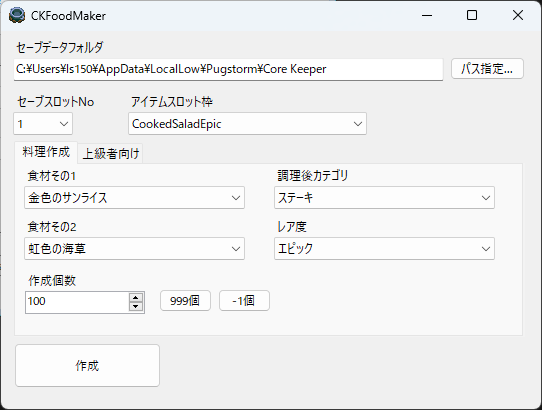
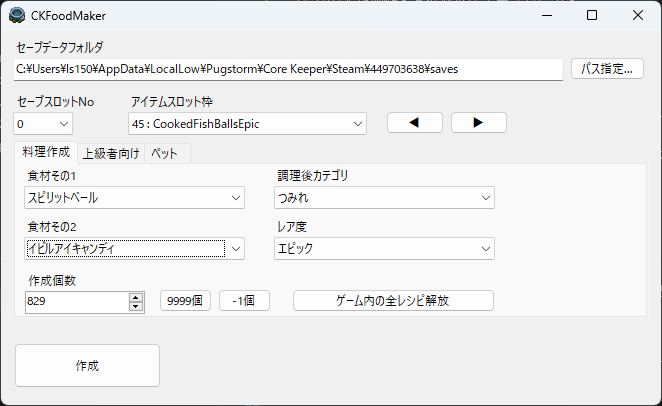
update read me.

diff --git a/README.md b/README.md
@@ -1,34 +1,53 @@
 # CKFoodMaker
 
-![CKFoodMaker Overview](Document/images/imageSample.png)
-
 [CoreKeepr](https://store.steampowered.com/app/1621690/Core_Keeper/)のインベントリ内容を操作する外部拡張エディターです。  
-通常の手段では作れない料理の作成を目的として制作しています。  
-手に入りにくい金色食材同士の料理や、作成する料理のレア度や個数を調整することが出来ます。  
-ポーションやシーズン料理を食材として扱うことによって、料理の補正効果やスキル効果が乗ることにより通常以上の効果量や効果時間を得ることが出来ます。  
-作成した料理やアイテムの使用や持ち込みにmod等は一切必要ありませんが、作成したアイテムが有効かどうかはゲーム側に判定されます。
+通常の手段では作れない料理の作成などを目的として制作しています。  
 
+## できること
+- 任意の食材の組み合わせによる料理の作成します。  
+  - 料理のレア度や個数を調整することが出来ます。  
+- ポーションやシーズン料理を食材とした料理を作成し、料理補正の乗った効果量や効果時間を得ることが出来ます。  
+- ただし一部の作成したアイテムが有効かどうかはゲーム側に判定されます。
+- 料理が未作成の食材の組み合わせをリストップします。
+- インベントリ内の全てのアイテム個数を変更できます。
+- インベントリ内の全ての装備の耐久度を変更できます。
+- インベントリ内の全てのペットスキルを変更できます。
+- 未取得のアイテムや装備をインベントリに作成できます。
+- ペットスキルの編集ができます。
+  - スキルの変更と有効/無効の切り替えができます。
+  - 未実装のペットスキルを対象に含みます。
+- 通常手段で入手不可の未実装アイテムの取得ができます。
+- 負数個の料理の作成
+  - 負数個のアイテムは回路のバグ挙動を使ったアイテム増殖に利用出来ます。  
+- ゲームやmodのバージョンに殆ど関係なく使えます。
+
+![CKFoodMaker Overview](Document/images/imageSample.png)  
+![](Document/images/imageEditPet.png)
+## 免責事項
+キャラクターデータのインベントリを直接編集します。
+また、上級者向けの機能として料理に限らない全てのアイテムの編集機能を持ちます。
+データの破損が紛失が起きても責任はおいかねます。    
+必ずバックアップをとってください。  
+
+## 制限事項
+以下の方は本ツールの機能に制限をかけています。  
+- エンディングに到達していない方  
+- 特定のパラメータが異常域に達している方  
+
+要はクリア後の正常なやりこみ勢向けツールになります。
+
+## 動作環境
+.NET 8.0以降のランタイムパッケージがインストールされていること。
+
+## Explain
 CKFoodMaker is an external extension editor designed to modify the inventory contents of [Core Keeper](https://store.steampowered.com/app/1621690/Core_Keeper/).  
 This tool is primarily intended for creating dishes that cannot be made through normal means.  
 It allows you to create dishes from rare golden ingredients and adjust the rarity and quantity of the dishes.  
 By using potions and seasonal dishes as ingredients, you can achieve effects and durations that exceed normal levels thanks to the enhanced effects and skill boosts.  
-No mods are required to use or bring the created dishes and items into the game, but whether the created items are valid is determined by the game itself.
-
-## 免責事項
-キャラクターデータのインベントリを直接編集します。
-また、上級者向けの機能として料理に限らない全てのアイテムの編集機能を持ちます。
-データの破損が紛失が起きても自己責任でお願いします。
+No mods are required to use or bring the created dishes and items into the game, but whether the created items are valid is determined by the game itself.  
 
 ## Disclaimer
-This tool directly edits the character data's inventory. It also includes advanced features that allow you to edit any item, not just dishes. Use at your own risk, as we are not responsible for any data corruption or loss.
-
-## 機能
-- 任意の食材を指定した料理の作成
-- ポーションやシーズン限定アイテムなどの、通常は食材として鍋に入れられないアイテムを食材指定した料理の作成
-- 作成する料理の個数、レア度、カテゴリの変更
-- 9999個を超えた料理の作成。
-- 負数個の料理の作成
-  - 負数個のアイテムは回路のバグ挙動を使ったアイテム増殖に利用出来ます。
+This tool directly edits the character data's inventory. It also includes advanced features that allow you to edit any item, not just dishes. Use at your own risk, as we are not responsible for any data corruption or loss.  
 
 ## Features
 - Create dishes with any specified ingredients
@@ -36,27 +55,14 @@ This tool directly edits the character data's inventory. It also includes advanc
 - Modify the quantity, rarity, and category of the dishes
 - Create dishes in quantities exceeding 999
 - Create dishes with a negative quantity
-  - Negative quantity items can be used for item duplication via circuits
-
-## 上級者向け機能で可能なこと
-- 装備のアイテムLv変更
-- 装備の耐久度の上限を超えた変更
-- 通常入手が不可能な設置物の所持
+  - Negative quantity items can be used for item duplication via circuits  
 
 ## Advanced Features
 - Modify the item level of equipment
 - Increase the durability of equipment beyond its normal limits
 - Possess items that cannot normally be obtained
 
-## 出来ないこと
-- インベントリ以外のキャラデータ内容の変更
-- ペットなど、補助データを持つアイテムの変更
-
-## Limitations
-- Cannot modify character data outside of the inventory
-- Cannot modify items with auxiliary data, such as pets
-
 ## 仕組みと解説
+Explanation is in Japanese only  
 [セーブデータ編集について](Document/analysis.md)  
 [パラメータについて](Document/parameter.md)  
-Japanese only.

diff --git a/Document/parameter.md b/Document/parameter.md
@@ -3,17 +3,24 @@
 キャラのインベントリのデータ構造のうち、インベントリに関わる部分は以下のような構造になっています。
 ```json
 "inventory": [
-        {
-            "objectID":1610,            //アイテムのId
-            "amount": 996,              //アイテムの所持数。装備の場合は耐久値。
-            "variation": 0,             //補助データその1。料理なら材料情報。装備ならアイテムLv、一部アイテムでは色とか向きとかサイズ変更。
-            "variationUpdateCount": 0   //補助データその2。用途不明。
-        },
+    {
+        "objectID":1610,            //アイテムのId
+        "amount": 996,              //アイテムの所持数。装備の場合は耐久値。
+        "variation": 0,             //補助データその1。料理なら材料情報。装備ならアイテムLv、一部アイテムでは色とか向きとかサイズ変更。
+        "variationUpdateCount": 0   //補助データその2。用途不明。
+    },
         //...省略 他オブジェクト群
 ],
 "inventoryObjectNames": [
     "Wood",
     //...省略 他オブジェクト名
+],
+"inventoryAuxData": [
+    {
+        "index": 0,
+        "data": ""  //アイテムの補助データ
+    },
+    //省略 他オブジェクト群
 ]
 ```
 inventoryとinventoryObjectNamesは配列内の先頭からインデックス情報が一致するものが同一アイテムです。  
@@ -25,13 +32,13 @@ inventoryObjectNameは海外wikiではInternalNameとも呼ばれ、内部で扱
 https://core-keeper.fandom.com/wiki/Object_IDs
 このリンクは本ソフトウェアの上級者向けタブにも用意しています。
 
-つまり、これらの情報を知っていれば通常では入手が不可能なアイテムをインベントリに用意して遊ぶことができます。  
-鉱床や古代のワイヤーはまさにこれで入手できます。  
-例えばinventoryの先頭要素のobjectIdを2206に、amountを10にして~~inventoryObjectNamesの先頭の名前をGalaxiteOreBoulderにすると~~ガラクサイトの鉱床を10個持った状態となり、ゲーム内で任意の場所に設置することもできます。
-(2024/09/15追記)  
-1.0以降、inventoryObjectNamesは任意の値でもゲーム側のファイル読み込み時に修正されるようになりました。
+つまり、これらの情報を知っていれば通常では入手が不可能なアイテムをインベントリに用意して遊ぶこともできます。  
+鉱床などはこれで入手できます。  
+例えばinventoryの先頭要素のobjectIdを2206に、amountを10にして作成すると、ガラクサイトの鉱床を10個持った状態となり、ゲーム内で任意の場所に設置することもできます。
+同様の補助データを弄ればペットのスキル変更も可能になります。
 
-注意点として、なんでも用意や設置が出来るわけではなく
+注意点として、なんでも用意や設置、変更が出来るわけではなく
+- 対象のIdが存在している
 - 整合性チェックを通過できる
 - ゲーム内で設置可能なアイテム扱いになっている
 
